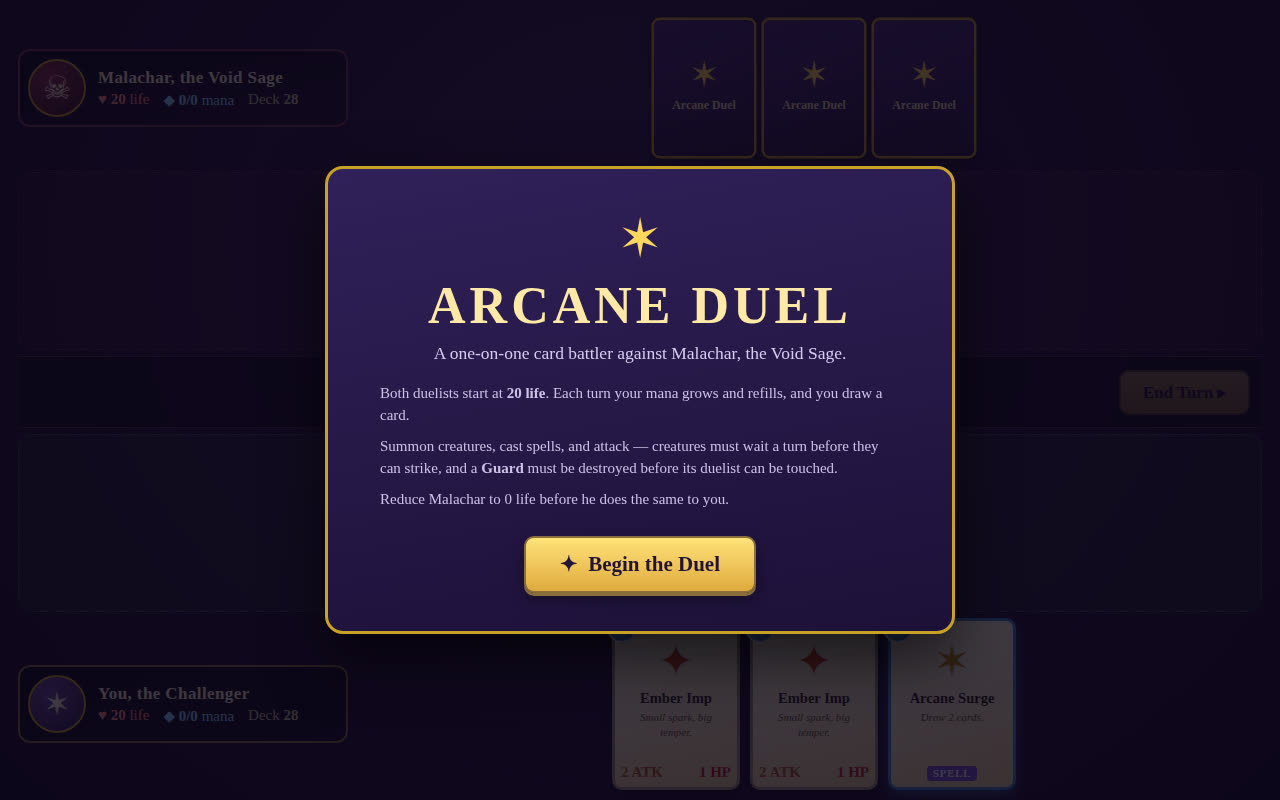
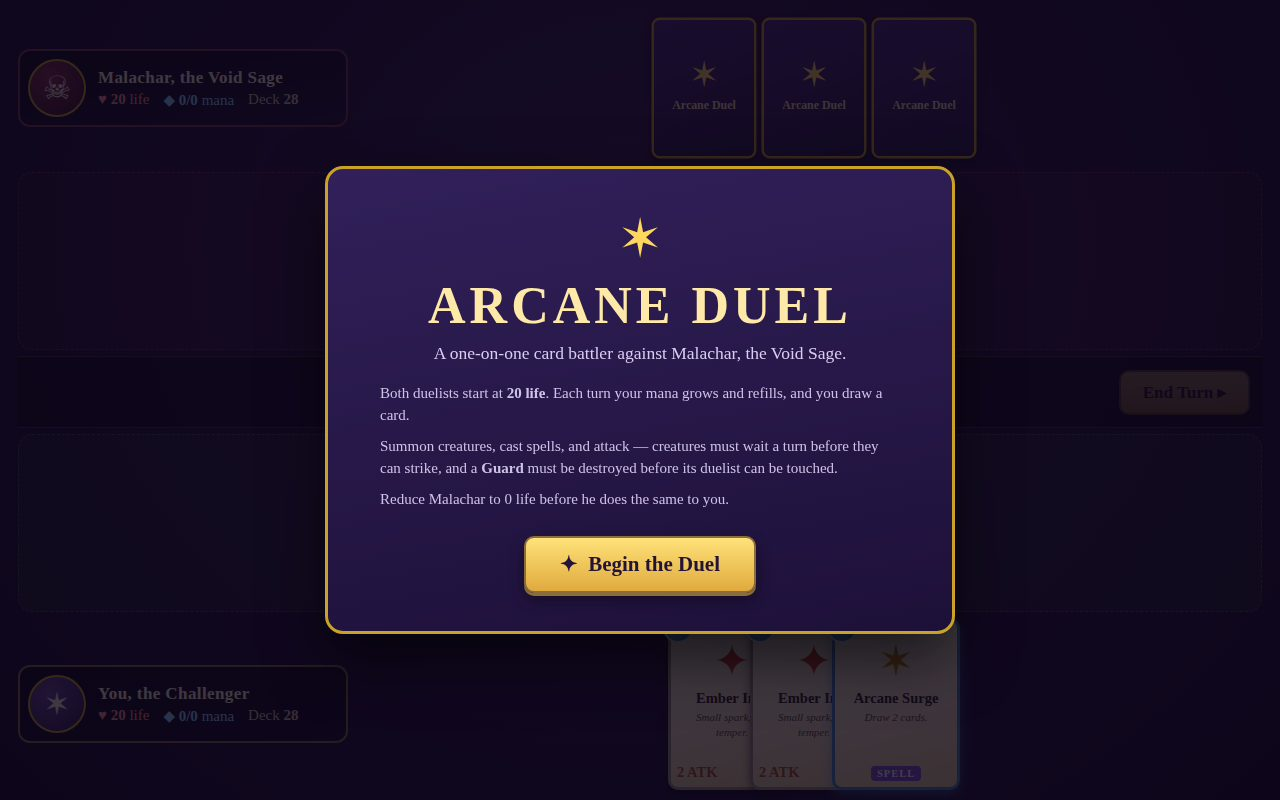
QC fixes: fan player hand, denser staged table, clamp displayed life
- style.css: player hand fans with negative side margins (sized for the
  ~896px beside the portrait) so 10-card hands stay on-screen/clickable
- ui.js stageTable(): richer turn-7 mid-game — 3v3 with Flame Phoenix and
  Void Reaper, Guards up, damaged Golem/Sentinel, 9 vs 7 life, 5-card
  hand holding epic Meteor; screenshots re-shot
- ui.js renderPortraits(): display Math.max(0, life) for both duelists

diff --git a/game/src/ui.js b/game/src/ui.js
@@ -61,32 +61,36 @@ function wireButtons() {
 
 function stageTable(s) {
   s.phase = 'play';
-  s.turn = 4;
+  s.turn = 7;
   s.active = 'player';
-  s.player.maxMana = 4;
-  s.player.mana = 3;
-  s.enemy.maxMana = 4;
+  s.player.maxMana = 7;
+  s.player.mana = 6;
+  s.enemy.maxMana = 7;
   s.enemy.mana = 0;
-  s.player.life = 16;
-  s.enemy.life = 13;
+  s.player.life = 9;
+  s.enemy.life = 7;
   s.player.hand = [];
   s.enemy.hand = [];
+  setupGiveCard(s, s.player, 'meteor');
   setupGiveCard(s, s.player, 'storm-drake');
   setupGiveCard(s, s.player, 'firebolt');
-  setupGiveCard(s, s.player, 'moon-archer');
+  setupGiveCard(s, s.player, 'tide-serpent');
   setupGiveCard(s, s.player, 'healing-light');
   setupGiveCard(s, s.enemy, 'ember-imp');
   setupGiveCard(s, s.enemy, 'rune-knight');
   setupGiveCard(s, s.enemy, 'frost-shard');
-  const golem = setupSummon(s, s.enemy, 'stone-golem');
+  setupSummon(s, s.player, 'flame-phoenix');
+  const golem = setupSummon(s, s.player, 'stone-golem');
   golem.health = 4;
-  setupSummon(s, s.enemy, 'shadow-assassin');
-  const knight = setupSummon(s, s.player, 'rune-knight');
-  knight.health = 2;
-  setupSummon(s, s.player, 'verdant-dryad');
-  logLine(s, 'Malachar plays Stone Golem.');
-  logLine(s, 'Your Rune Knight clashes with Shadow Assassin.');
-  logLine(s, 'Turn 4 — your move.');
+  setupSummon(s, s.player, 'moon-archer');
+  setupSummon(s, s.enemy, 'void-reaper');
+  const sentinel = setupSummon(s, s.enemy, 'iron-sentinel');
+  sentinel.health = 3;
+  setupSummon(s, s.enemy, 'shadow-assassin', false);
+  logLine(s, 'Malachar summons the Void Reaper.');
+  logLine(s, 'Your Flame Phoenix scorches his Iron Sentinel.');
+  logLine(s, 'Your Stone Golem holds the line, battered but standing.');
+  logLine(s, 'Turn 7 — your move.');
 }
 
 function stageEnd(s, won) {
@@ -248,8 +252,8 @@ function hintText() {
 }
 
 function renderPortraits() {
-  $('enemy-life').textContent = state.enemy.life;
-  $('player-life').textContent = state.player.life;
+  $('enemy-life').textContent = Math.max(0, state.enemy.life);
+  $('player-life').textContent = Math.max(0, state.player.life);
   $('player-mana').textContent = `${state.player.mana}/${state.player.maxMana}`;
   $('enemy-mana').textContent = `${state.enemy.mana}/${state.enemy.maxMana}`;
   $('player-deck').textContent = state.player.deck.length;

diff --git a/game/style.css b/game/style.css
@@ -76,6 +76,15 @@ body {
 
 .hand { display: flex; gap: 10px; align-items: flex-end; flex: 1; justify-content: center; }
 .enemy-hand .card { transform: scale(.82); margin: -8px -14px; }
+/* Player hand fans like the enemy's: negative side margins overlap the
+   fixed-width cards so a full hand (9–10 cards) stays on-screen and every
+   card remains visible and clickable instead of running off the edge.
+   The overlap is sized for the hand's real width — it shares its row with
+   the 330px portrait, leaving ~896px, so 10 cards need ~28px a side. */
+.player-hand .card { margin: 0 -28px; }
+.player-hand .card:first-child { margin-left: 0; }
+.player-hand .card:last-child { margin-right: 0; }
+.player-hand .card:hover, .player-hand .card.selected { z-index: 2; }
 
 /* --- The middle strip ------------------------------------------------------ */
 
